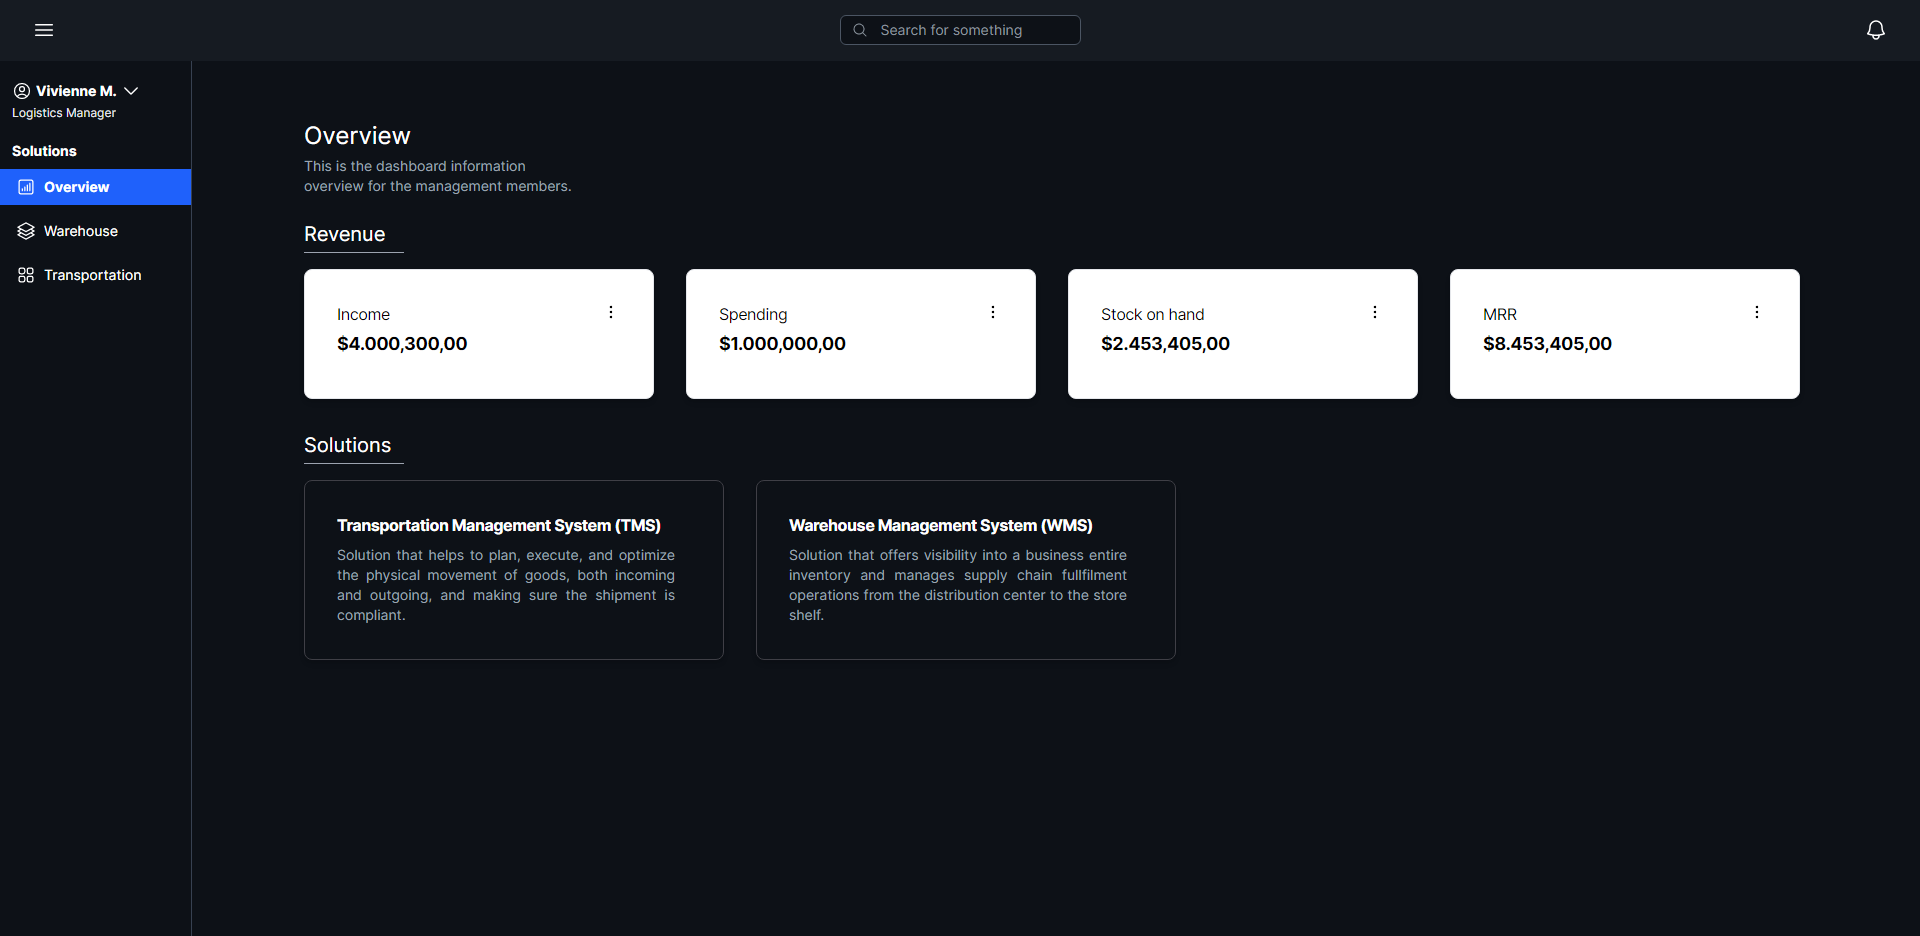
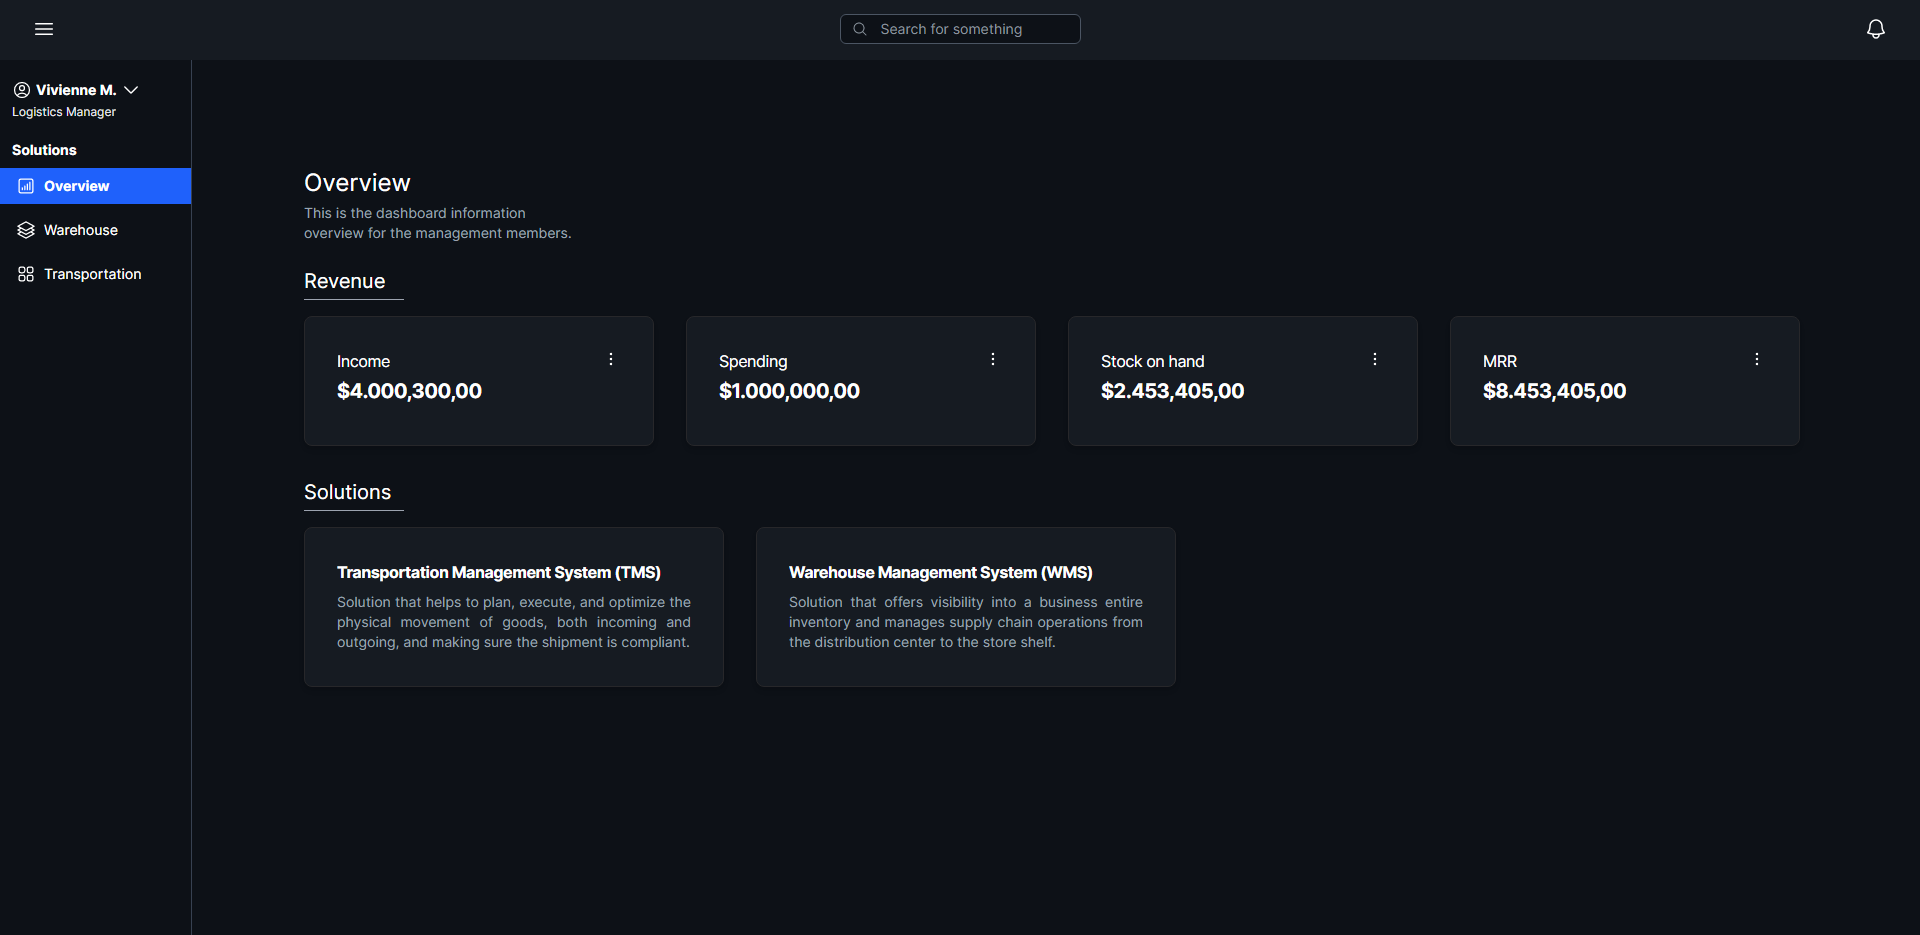
Updating overview interface

diff --git a/client/pages/index.tsx b/client/pages/index.tsx
@@ -38,7 +38,7 @@ export default function Home() {
       <Nav />
 
       <main className="h-screen w-screen pt-[65px] pl-48 text-white">
-        <div className="max-w-screen max-h-screen py-8 px-28">
+        <div className="max-w-screen max-h-screen py-20 px-28">
           <div className="my-6 flex flex-col">
             <div className="flex items-center gap-2">
               <h1 className="mb-1 text-2xl">Overview</h1>
@@ -53,26 +53,26 @@ export default function Home() {
             <div className="flex flex-col">
               <h1 className="pb-1 text-xl">Revenue</h1>
               <div className="mb-4 h-[1px] w-[100px] bg-gray-400"></div>
-              <div className="flex gap-8 bg-[#0d1117]">
+              <div className="flex gap-8">
                 {Object.keys(stats).map((key) => {
                   const stat = stats[key as keyof typeof stats];
                   return (
                     <div
-                      className="block h-[130px] w-[350px] rounded-lg border bg-white px-8 py-8 shadow-md hover:shadow-md"
+                      className="block h-[130px] w-[350px] rounded-lg border border-zinc-800 bg-[#161b22] px-8 py-8 shadow-md hover:shadow-md"
                       key={stat.value}
                     >
                       <div key={stat.title}>
                         <h1
-                          className="text-md flex justify-between tracking-tight text-black"
+                          className="text-md flex justify-between tracking-tight text-white"
                           key={stat.title}
                         >
                           {stat.title}
-                          <EllipsisVerticalIcon className="h-5 w-5 cursor-pointer text-black" />
+                          <EllipsisVerticalIcon className="h-5 w-5 cursor-pointer text-white" />
                         </h1>
                       </div>
                       <div>
                         <h1
-                          className="pt-1 text-lg font-bold tracking-tight text-black"
+                          className="pt-1 text-xl font-bold tracking-tight text-white"
                           key={stat.value}
                         >
                           {stat.value}
@@ -89,14 +89,14 @@ export default function Home() {
               <div className="flex gap-8">
                 <Link
                   href="/tms/deliveries"
-                  className="block h-[180px] w-[420px] rounded-lg border border-zinc-700 bg-[#0d1117] py-8 px-8 shadow-md transition-all duration-200 hover:scale-105 hover:shadow-md"
+                  className="block h-[160px] w-[420px] rounded-lg border border-zinc-800 bg-[#161b22] py-8 px-8 shadow-md transition-all duration-200 hover:scale-105 hover:shadow-md"
                 >
                   <div className="flex justify-between">
                     <h5 className="text-md mb-2 font-bold tracking-tight text-white">
                       Transportation Management System (TMS)
                     </h5>
                   </div>
-                  <p className="pr-4 text-justify text-sm font-normal text-gray-400">
+                  <p className="text-justify text-sm font-normal text-gray-400">
                     Solution that helps to plan, execute, and optimize the
                     physical movement of goods, both incoming and outgoing, and
                     making sure the shipment is compliant.
@@ -104,17 +104,17 @@ export default function Home() {
                 </Link>
                 <Link
                   href="wms/inventory"
-                  className="block h-[180px] w-[420px] rounded-lg border border-zinc-700 bg-[#0d1117] py-8 px-8 shadow-md transition-all duration-200 hover:scale-105 hover:shadow-md"
+                  className="block h-[160px] w-[420px] rounded-lg border border-zinc-800 bg-[#161b22] py-8 px-8 shadow-md transition-all duration-200 hover:scale-105 hover:shadow-md"
                 >
                   <div className="flex justify-between">
                     <h5 className="text-md mb-2 font-bold tracking-tight text-white">
                       Warehouse Management System (WMS)
                     </h5>
                   </div>
-                  <p className="pr-4 text-justify text-sm font-normal text-gray-400">
+                  <p className="text-justify text-sm font-normal text-gray-400">
                     Solution that offers visibility into a business entire
-                    inventory and manages supply chain fullfilment operations
-                    from the distribution center to the store shelf.
+                    inventory and manages supply chain operations from the
+                    distribution center to the store shelf.
                   </p>
                 </Link>
               </div>
